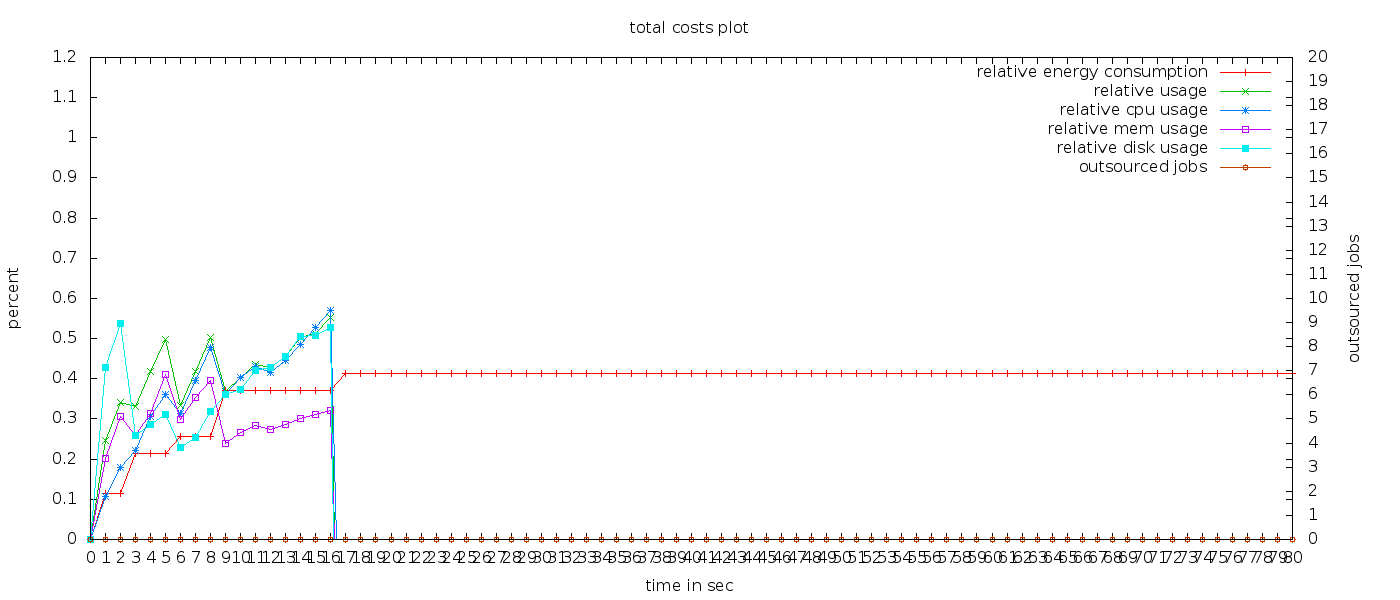
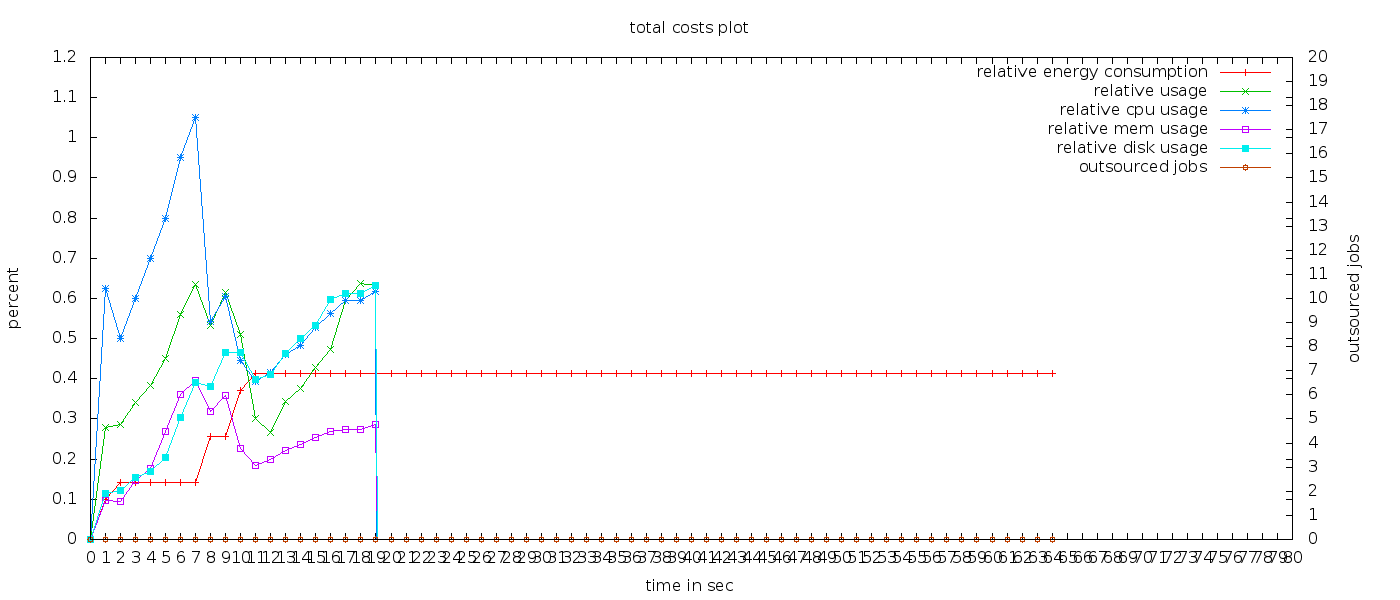
bug

diff --git a/src/at/ac/tuwien/infosys/lsdc/scheduler/monitor/PerformanceMonitor.java b/src/at/ac/tuwien/infosys/lsdc/scheduler/monitor/PerformanceMonitor.java
@@ -141,13 +141,14 @@ public class PerformanceMonitor implements IJobEventListener {
 				intermediateSol2.addAll(redistributeVMOperation
 						.execute(currentSolution.getDestination()));
 			}
-			if (intermediateSol2.size() > 0)
+			if (intermediateSol2.size() > 0) {
 				intermediateSol.clear();
 				intermediateSol.addAll(intermediateSol2.subList(0, (intermediateSol2.size() < 5 ? intermediateSol2.size() : 5)));
+			} else {
+				break;
+			}
+				
 		}
-
-		if (intermediateSol.size() > 0)
-			System.out.println("=== SIZE: " + intermediateSol.size());
 
 		Collections.sort(intermediateSol);
 		if (intermediateSol.size() > 0) {
